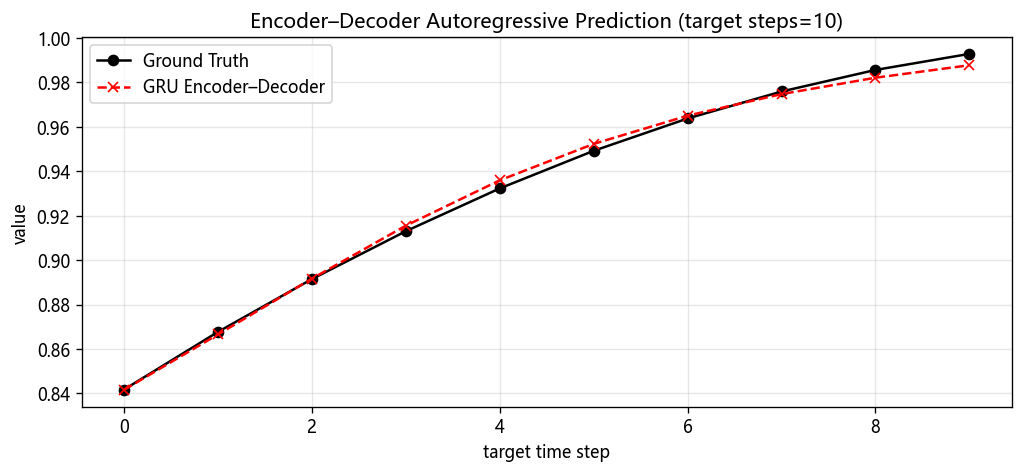
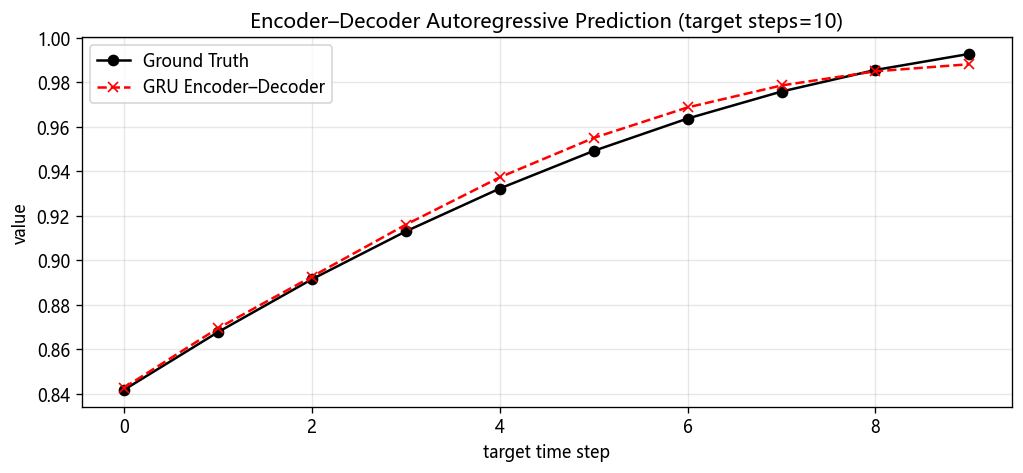
update: refine GRU code/plots and notes

diff --git a/RNN-Learning/GRU/gru.py b/RNN-Learning/GRU/gru.py
@@ -1,32 +1,4 @@
-"""
-GRU (Gated Recurrent Unit) 数字序列预测 —— 代码复现
-====================================================
-复现论文《Learning Phrase Representations using RNN
-Encoder–Decoder for Statistical Machine Translation》
-(Kyunghyun Cho et al., 2014) 提出的 GRU 隐藏单元
-与其 Encoder–Decoder 架构思想。
-
-文件名统一为 gru.py，放置在 RNN-Learning/GRU 下。
-与 ../RNN/rnn.py、../LSTM/lstm.py 保持一致的风格。
-
-本文件包含四部分：
-  1. VanillaGRU (from scratch)   —— 完全从零实现 GRU 前向 + BPTT 反向传播
-  2. TorchGRU                   —— 使用 PyTorch 内置 nn.GRU 的版本（对照）
-  3. EncoderDecoderGRU          —— 复现论文 Encoder–Decoder 架构（自回归多步预测）
-  4. 数据 / 训练 / 可视化         —— 同样以"正弦波序列预测"作为数字序列预测任务
-
-GRU 单元公式（论文 Eq. 5–8，本复现与原论文一致）：
-  重置门 r(t) = sigmoid(W_r · x(t) + U_r · h(t-1) + b_r)
-  更新门 z(t) = sigmoid(W_z · x(t) + U_z · h(t-1) + b_z)
-  候选状态 h̃(t) = tanh(W · x(t) + U · (r(t) ⊙ h(t-1)) + b_h)   # 关键：r⊙h，而非完整 h
-  隐藏状态 h(t) = z(t) ⊙ h(t-1) + (1 - z(t)) ⊙ h̃(t)           # 门控线性插值
-  输出：   y(t) = W_hy · h(t) + b_y
-
-与 LSTM 相比，GRU 只有两个门（重置门、更新门），没有独立的细胞状态 c(t)，
-隐藏状态即最终输出。候选状态用"重置门对上一时刻隐藏态做逐元素屏蔽 (r⊙h)"，
-使得单元能丢弃与未来无关的信息，从而学到不同时间尺度的依赖——这正是论文
-2.3 节强调的"adaptively remembers and forgets"。
-"""
+"""GRU (Gated Recurrent Unit) 数字序列预测 —— 代码复现"""
 
 import numpy as np
 import torch

diff --git a/CNN-Learning/CNN-Note.md b/CNN-Learning/CNN-Note.md
@@ -115,6 +115,8 @@ print(torch.xpu.device_count())   # 应为 1（B580）
 1. 做了什么
 - Inception Module：同一个输入，同时经过多个不同大小的卷积核的卷积操作，然后把结果拼接起来。
 - 取消大量全连接层，采用全局平均池化（Global Average Pooling），进一步减少了参数量和过拟合风险。
+	- 全局平均池化：对输入的每个通道做平均池化，然后把所有通道的结果拼接起来。
+	- e.g. 一张特征图7*7*512，对每一个通道的单独求平均值，得到512个数，再拼接起来，结果为1*1*512
 - 使用1*1的卷积层实现降维操作，在不明显降低特征表达能力的情况下，大幅降低计算量。
 - 增加深度和宽度，但控制计算量。明确将“提高计算资源利用率”作为 Inception 架构的主要目标之一。
 - 特色设计：辅助分类器（Auxiliary Classifier），帮助中间层（Inception4的位置）获得更直接的梯度信号，并起到一定正则化作用。
